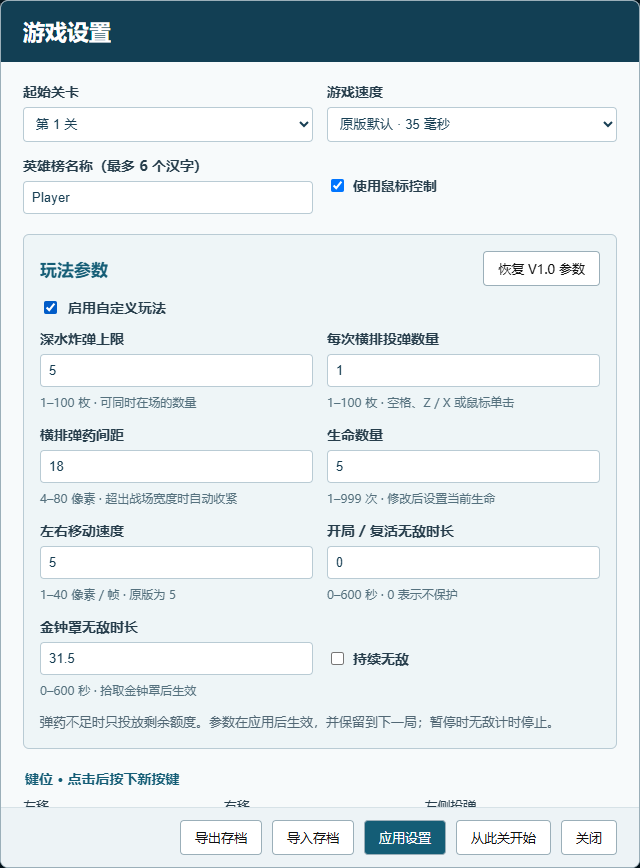
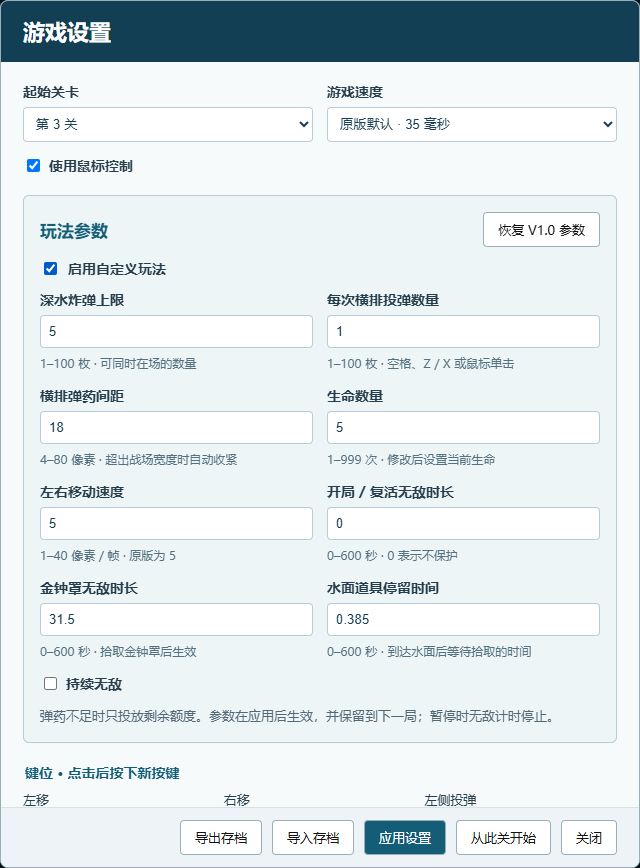
Collect leaderboard names only at game over

diff --git a/game.js b/game.js
@@ -26,14 +26,14 @@ for(let i=1;i<=20;i++)$('startLevel').add(new Option('第 '+i+' 关',i));for(con
 function fillRules(r){$('customRules').checked=r.enabled;$('invincible').checked=r.invincible;for(const f of document.querySelectorAll('[data-rule]'))f.value=r[f.dataset.rule];$('tuningFields').disabled=!r.enabled;}
 $('customRules').onchange=()=>$('tuningFields').disabled=!$('customRules').checked;$('resetRules').onclick=()=>fillRules(ShipTuning.defaults);
 function settingsError(s){$('optionsError').textContent=s;$('optionsError').hidden=false;}
-$('settings').onclick=()=>{if(!ready)return;fillRules(bridge.tuning.config);$('optionsError').hidden=true;$('startLevel').value=selectedStartLevel;$('speed').value=bridge.step;$('useMouse').checked=bridge.useMouse;$('playerName').value=bridge.playerName||'Player';for(const f of document.querySelectorAll('[data-keymap]')){f.dataset.key=keymap[f.dataset.keymap];f.value=keyName(+f.dataset.key);}openDialog('options');};
+$('settings').onclick=()=>{if(!ready)return;fillRules(bridge.tuning.config);$('optionsError').hidden=true;$('startLevel').value=selectedStartLevel;$('speed').value=bridge.step;$('useMouse').checked=bridge.useMouse;for(const f of document.querySelectorAll('[data-keymap]')){f.dataset.key=keymap[f.dataset.keymap];f.value=keyName(+f.dataset.key);}openDialog('options');};
 for(const f of document.querySelectorAll('[data-keymap]'))f.onkeydown=e=>{if(e.key==='Tab'||e.key==='Escape')return;e.preventDefault();if(e.keyCode<32||e.keyCode>=112){settingsError('请选择方向键、空格、字母或数字键');return;}f.dataset.key=e.keyCode;f.value=keyName(e.keyCode);};
-function saveSettings(){localStorage.setItem('ship10-settings',JSON.stringify({startLevel:selectedStartLevel,step:bridge.step,mouse:bridge.useMouse,sound:bridge.sound,name:bridge.playerName,gameplay:bridge.tuning.config,keymap}));}
-function applySettings(){const rules={enabled:$('customRules').checked,invincible:$('invincible').checked};for(const f of document.querySelectorAll('[data-rule]')){if(rules.enabled&&!f.reportValidity())return false;rules[f.dataset.rule]=Number(f.value);}const keys=[...document.querySelectorAll('[data-keymap]')];if(new Set(keys.map(f=>+f.dataset.key)).size!==keys.length){settingsError('各操作的键位不能重复');return false;}try{ShipTuning.rules(rules);}catch(e){settingsError(e.message);return false;}selectedStartLevel=+$('startLevel').value;bridge.tuning.rescaleProtection(bridge.step,+$('speed').value);bridge.step=+$('speed').value;bridge.tuning.apply(rules);bridge.useMouse=$('useMouse').checked;bridge.playerName=$('playerName').value.trim()||'Player';for(const f of keys)keymap[f.dataset.keymap]=+f.dataset.key;saveSettings();$('optionsError').hidden=true;return true;}
+function saveSettings(){localStorage.setItem('ship10-settings',JSON.stringify({startLevel:selectedStartLevel,step:bridge.step,mouse:bridge.useMouse,sound:bridge.sound,gameplay:bridge.tuning.config,keymap}));}
+function applySettings(){const rules={enabled:$('customRules').checked,invincible:$('invincible').checked};for(const f of document.querySelectorAll('[data-rule]')){if(rules.enabled&&!f.reportValidity())return false;rules[f.dataset.rule]=Number(f.value);}const keys=[...document.querySelectorAll('[data-keymap]')];if(new Set(keys.map(f=>+f.dataset.key)).size!==keys.length){settingsError('各操作的键位不能重复');return false;}try{ShipTuning.rules(rules);}catch(e){settingsError(e.message);return false;}selectedStartLevel=+$('startLevel').value;bridge.tuning.rescaleProtection(bridge.step,+$('speed').value);bridge.step=+$('speed').value;bridge.tuning.apply(rules);bridge.useMouse=$('useMouse').checked;for(const f of keys)keymap[f.dataset.keymap]=+f.dataset.key;saveSettings();$('optionsError').hidden=true;return true;}
 $('applySettings').onclick=()=>action(()=>{if(applySettings()){$('options').close();message('设置已应用');}});$('startSelected').onclick=()=>action(()=>{if(!applySettings())return;bridge.startLevel(selectedStartLevel);if(bridge.state().paused)bridge.keyDown(114);modalPause.set($('options'),false);$('options').close();last=0;accumulator=0;});
 function showScores(){const c=bridge.cpu,base=c.read(bridge.game+0x14c),rows=$('scoreRows');rows.replaceChildren();for(let i=0;i<10;i++){const a=base+i*40,tr=document.createElement('tr');for(const value of [i+1,bridge.str(a+4)||'—',c.read(a+24),c.read(a+20),bridge.str(a+28)]){const td=document.createElement('td');td.textContent=value;tr.append(td);}rows.append(tr);}openDialog('heroes');}
 $('scores').onclick=()=>action(showScores);
-function showNameEntry(){if($('scoreEntry').open)return;held.clear();$('entryScore').textContent=bridge.state().score;$('entryName').value=bridge.playerName&&bridge.playerName!=='Player'?bridge.playerName:'';$('entryError').hidden=true;$('scoreEntry').showModal();$('entryName').focus();}
+function showNameEntry(){if($('scoreEntry').open)return;held.clear();$('entryScore').textContent=bridge.state().score;$('entryName').value='';$('entryError').hidden=true;$('scoreEntry').showModal();$('entryName').focus();}
 function finishName(name){try{bridge.completeName(name);for(const k of [37,39])bridge.keyUp(k);last=0;accumulator=0;$('scoreEntry').close();refresh();if(bridge.showScores){bridge.showScores=false;showScores();}}catch(e){fail(e);}}
 $('entryForm').onsubmit=e=>{e.preventDefault();const name=$('entryName').value.trim();if(!name||bridge.decoder.decode(bridge.nameBytes(name))!==name){$('entryError').textContent='请输入名字，最多 6 个汉字或 12 个字母。';$('entryError').hidden=false;return;}finishName(name);saveSettings();};$('cancelEntry').onclick=()=>finishName(null);$('scoreEntry').addEventListener('cancel',e=>{e.preventDefault();finishName(null);});
 $('exportSave').onclick=()=>action(()=>{const bytes=storeSave(),url=URL.createObjectURL(new Blob([bytes])),a=document.createElement('a');a.href=url;a.download='潜艇大战V1.0.ship10';a.click();setTimeout(()=>URL.revokeObjectURL(url),1000);message('存档已导出');});$('importSave').onclick=()=>$('saveFile').click();$('saveFile').onchange=async()=>{const f=$('saveFile').files[0];if(!f)return;try{const bytes=new Uint8Array(await f.arrayBuffer());ShipSave.decode(bytes);action(()=>{restoreSave(bytes);saved=new TextDecoder().decode(bytes);localStorage.setItem('ship10-save',saved);modalPause.set($('options'),false);$('options').close();message('存档已导入');});}catch(e){settingsError(e.message);}$('saveFile').value='';};
@@ -44,7 +44,7 @@ for(const b of document.querySelectorAll('[data-key]')){let timer;const k=+b.dat
 function pointer(e,click){if(!ready||document.querySelector('dialog[open]'))return;const r=canvas.getBoundingClientRect();action(()=>bridge.mouse((e.clientX-r.left)*500/r.width,(e.clientY-r.top)*350/r.height,click));if(click)enableAudio();}
 canvas.onpointermove=e=>{if(e.pointerType==='mouse')pointer(e,false);};canvas.onpointerdown=e=>{e.preventDefault();canvas.focus();pointer(e,true);};canvas.oncontextmenu=e=>e.preventDefault();
 function loop(t){if(ready&&bridge.pendingName){showNameEntry();last=t;accumulator=0;requestAnimationFrame(loop);return;}if(ready&&!stopped){accumulator+=last?Math.min(t-last,120):0;try{let updated=false,steps=0;while(accumulator>=bridge.step&&steps++<24){bridge.frame();accumulator-=bridge.step;updated=true;if(bridge.cpu.suspended)break;}if(updated)present();refresh();if(bridge.pendingName)showNameEntry();}catch(e){fail(e);}}last=t;requestAnimationFrame(loop);}
-(async()=>{try{const images={};await Promise.all(SHIP_RESOURCES.images.map(id=>new Promise((resolve,reject)=>{const im=new Image();im.onload=()=>{images[id]=im;resolve();};im.onerror=()=>reject(Error('图片加载失败 '+id));im.src=SHIP_RESOURCES.data[id];})));bridge=new ShipBridge(new ShipCPU(SHIP_MACHINE),board,images);window.ship=bridge;bridge.initialize();bridge.useMouse=true;const cfg=JSON.parse(localStorage.getItem('ship10-settings')||'null');if(cfg){bridge.playerName=cfg.name;bridge.useMouse=!!cfg.mouse;bridge.sound=cfg.sound!==false;if(Number.isFinite(cfg.step)&&cfg.step>=1&&cfg.step<=181)bridge.step=cfg.step;if(cfg.gameplay)bridge.tuning.apply(cfg.gameplay);if(cfg.keymap)keymap=cfg.keymap;if(Number.isInteger(cfg.startLevel)&&cfg.startLevel>=1&&cfg.startLevel<=20)selectedStartLevel=cfg.startLevel;bridge.startLevel(selectedStartLevel);}ready=true;window.gameReady=true;fitCanvas();refresh();requestAnimationFrame(loop);}catch(e){fail(e);}})();
+(async()=>{try{const images={};await Promise.all(SHIP_RESOURCES.images.map(id=>new Promise((resolve,reject)=>{const im=new Image();im.onload=()=>{images[id]=im;resolve();};im.onerror=()=>reject(Error('图片加载失败 '+id));im.src=SHIP_RESOURCES.data[id];})));bridge=new ShipBridge(new ShipCPU(SHIP_MACHINE),board,images);window.ship=bridge;bridge.initialize();bridge.useMouse=true;const cfg=JSON.parse(localStorage.getItem('ship10-settings')||'null');if(cfg){bridge.useMouse=!!cfg.mouse;bridge.sound=cfg.sound!==false;if(Number.isFinite(cfg.step)&&cfg.step>=1&&cfg.step<=181)bridge.step=cfg.step;if(cfg.gameplay)bridge.tuning.apply(cfg.gameplay);if(cfg.keymap)keymap=cfg.keymap;if(Number.isInteger(cfg.startLevel)&&cfg.startLevel>=1&&cfg.startLevel<=20)selectedStartLevel=cfg.startLevel;bridge.startLevel(selectedStartLevel);}ready=true;window.gameReady=true;fitCanvas();refresh();requestAnimationFrame(loop);}catch(e){fail(e);}})();
 
 document.getElementById('restartNew').onclick=()=>{document.getElementById('restartPrompt').close();down(113,true);canvas.focus();};
 document.getElementById('restartContinue').onclick=()=>{document.getElementById('restartPrompt').close();if(bridge.state().paused)down(114);canvas.focus();};

diff --git a/index.html b/index.html
@@ -131,7 +131,7 @@ main:fullscreen{background:#10232d;padding:8px}
 </dialog>
 <dialog id="options" class="panel" aria-labelledby="optionsTitle">
 <h2 id="optionsTitle">游戏设置</h2><div class="content">
-<div class="form-grid"><label>起始关卡<select id="startLevel"></select></label><label>游戏速度<select id="speed"><option value="35">原版默认 · 35 毫秒</option></select></label><label>英雄榜名称（最多 6 个汉字）<input id="playerName" maxlength="12" value="Player" autocomplete="nickname"></label><label class="check"><input id="useMouse" type="checkbox" checked>使用鼠标控制</label></div>
+<div class="form-grid"><label>起始关卡<select id="startLevel"></select></label><label>游戏速度<select id="speed"><option value="35">原版默认 · 35 毫秒</option></select></label><label class="check"><input id="useMouse" type="checkbox" checked>使用鼠标控制</label></div>
 <section class="tuning-group" aria-labelledby="tuningTitle">
 <div class="tuning-heading"><h3 id="tuningTitle">玩法参数</h3><button id="resetRules" type="button">恢复 V1.0 参数</button></div>
 <label class="tuning-toggle"><input id="customRules" type="checkbox">启用自定义玩法</label>

diff --git a/README.md b/README.md
@@ -95,7 +95,7 @@ V1.0 原版没有增加炸弹容量和移动加速的上述两种宝物，炸弹
 
 ## 设置与自定义玩法
 
-点击“设置”或按 F4。起始关卡、速度、鼠标控制、姓名和键位可单独调整。设置不会仅因打开对话框而重置；点击“应用设置”才保存，直接关闭则放弃未应用的修改。
+点击“设置”或按 F4。起始关卡、速度、鼠标控制和键位可单独调整。设置不会仅因打开对话框而重置；点击“应用设置”才保存，直接关闭则放弃未应用的修改。
 
 - **起始关卡：**可选第 1–20 关。“应用设置”保存选择；“开始”、F2 和刷新后使用该选择。“从此关开始”立即重新开始一局。
 - **游戏速度：**默认每帧 35 ms；另有 1、21、41…181 ms 预设。间隔越短，整个游戏运行越快，实际速度受浏览器性能限制。
@@ -117,7 +117,7 @@ V1.0 原版没有增加炸弹容量和移动加速的上述两种宝物，炸弹
 
 ## 英雄榜
 
-成绩达到原版排名门槛时，弹出姓名输入窗口。输入姓名后点击“保存成绩”，按原版规则插入前十名；点击“不记录”或按 Esc 跳过。姓名支持最多 **6 个汉字或 12 个英文字母**，受原版 GBK 编码长度限制。设置里的姓名用于预填下次输入。
+成绩达到原版排名门槛时，弹出姓名输入窗口。输入姓名后点击“保存成绩”，按原版规则插入前十名；点击“不记录”或按 Esc 跳过。姓名支持最多 **6 个汉字或 12 个英文字母**，受原版 GBK 编码长度限制。
 
 按 F9 或点击“英雄榜”查看名称、得分、过关和日期。英雄榜保存于当前浏览器本地，不是联网排行榜。
 
